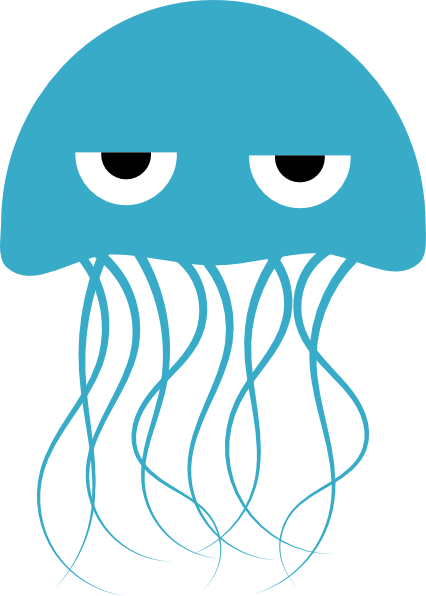
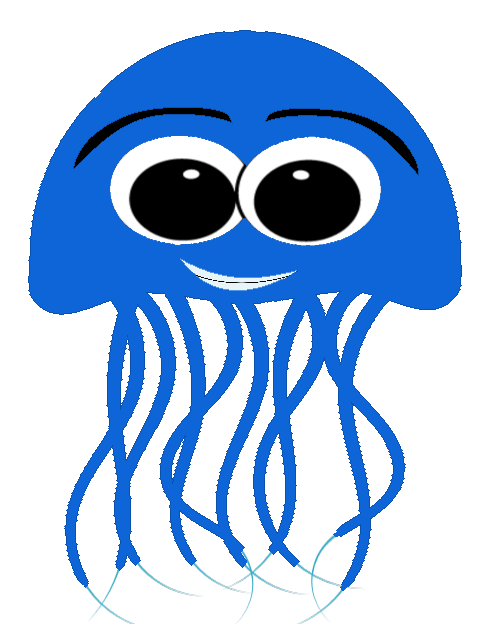
Background to games
Added background and happier jelly

diff --git a/src/view/Game2.java b/src/view/Game2.java
@@ -78,6 +78,9 @@ public class Game2 extends JPanel implements KeyListener
 	private int questionBase;
 	private int questionTypes; // TODO
 	private int speed;
+	private Image backgroundImg;
+	private ImageIcon backgroundIcon;
+	private JLabel background;
 	
 	private int numQuestionsAsked;
 	private int questionsAnsweredCorrectly; // TODO
@@ -118,6 +121,7 @@ public class Game2 extends JPanel implements KeyListener
 		questionsAnsweredCorrectly = 0;
 		needsInstructions = false;
 
+		setBackground();
 		setUpImages();
 		addKeyListener(this);
 		setFocusable(true);
@@ -138,7 +142,7 @@ public class Game2 extends JPanel implements KeyListener
 		jelly = new JButton(question, jellyIcon);
 		jelly.setVerticalTextPosition(SwingConstants.TOP);
 		jelly.setFont(new Font("Tahoma", Font.BOLD, 25));
-		jelly.setForeground(new Color(25, 25, 112));
+		jelly.setForeground(new Color(20, 20, 217));
 		int randomPlacement = Controller.rng.nextInt(numberOfColumns);
 		columnLabels = null;
 		columnLabels = new ArrayList<JLabel>();
@@ -157,6 +161,7 @@ public class Game2 extends JPanel implements KeyListener
 			columnLabels.add(new JLabel(" "+columnAnswer,chestIcon,JLabel.CENTER));
 		}
 		setUpVar();
+		add(background);
 		playing = true;
 		reset = false;
 	}
@@ -181,8 +186,7 @@ public class Game2 extends JPanel implements KeyListener
 		theLayout.putConstraint(SpringLayout.EAST, scoreLabel, -20, SpringLayout.WEST, help);
 		
 		feedbackLabel.setHorizontalAlignment(SwingConstants.LEFT);
-		feedbackLabel.setForeground(new Color(70, 130, 180));
-		feedbackLabel.setBackground(new Color(245, 245, 245));
+		feedbackLabel.setForeground(new Color(20, 20, 217));
 		feedbackLabel.setFont(new Font("Arial", Font.BOLD, 35));
 		feedbackLabel.setHorizontalTextPosition(SwingConstants.CENTER);
 		feedbackLabel.setVerticalTextPosition(SwingConstants.TOP);
@@ -216,8 +220,8 @@ public class Game2 extends JPanel implements KeyListener
 	
 	private void setUpImages()
 	{
-		jellyWidth = xSpacing / 3;
-		jellyHeight = xSpacing / 2;
+		jellyWidth = (int)(xSpacing / 2.5);
+		jellyHeight = (int) (xSpacing / 1.75);
 
 		try
 		{
@@ -293,9 +297,23 @@ public class Game2 extends JPanel implements KeyListener
 			}
 		});
 	}
+	
+	private void setBackground(){
+		try
+		{
+			backgroundImg = ImageIO.read(this.getClass().getResourceAsStream("background.jpg"));
+		}
+		catch (IOException ex)
+		{
+			System.out.println("File \"background.jpg\" is missing.");
+		}
+		backgroundImg = backgroundImg.getScaledInstance(base.frame.getWidth(), base.frame.getHeight(), java.awt.Image.SCALE_SMOOTH);
+		backgroundIcon = new ImageIcon(backgroundImg);
+		background = new JLabel(backgroundIcon);
+	}
 
 	private void setUpVar()
-	{
+	{		
 		int currentX = (xSpacing / 3) - 50; //was  +30
 		label1 = columnLabels.get(0);
 		label1.setForeground(new Color(255, 255, 255));
@@ -323,7 +341,6 @@ public class Game2 extends JPanel implements KeyListener
 		theLayout.putConstraint(SpringLayout.SOUTH, label3, 0, SpringLayout.SOUTH, this);
 		theLayout.putConstraint(SpringLayout.WEST, label3, currentX, SpringLayout.WEST, this);
 		add(label3);
-
 		jelly.setLocation(jellyLocation);
 		jelly.setFocusable(false);
 		jelly.setFocusPainted(false);
@@ -332,7 +349,6 @@ public class Game2 extends JPanel implements KeyListener
 		jelly.setBorderPainted(false);
 		jelly.setMargin(new Insets(0, 0, 0, 0));
 		jelly.setHorizontalTextPosition(JButton.CENTER);
-
 		add(jelly);
 	}
 

diff --git a/src/view/Game1.java b/src/view/Game1.java
@@ -64,7 +64,10 @@ public class Game1 extends JPanel
 	private ImageIcon catchIcon;
 	private Image missImg;
 	private ImageIcon missIcon;
+	private Image backgroundImg;
+	private ImageIcon backgroundIcon;
 	private JLabel feedbackLabel;
+	private JLabel background;
 
 	private int questionBase;
 	private int questionTypes; // TODO
@@ -111,9 +114,11 @@ public class Game1 extends JPanel
 		needsInstructions = false;
 		feedbackLabel = new JLabel("");
 		
+		setBorder(new LineBorder(new Color(70, 130, 180), 10));
+		setBackground();
 		setUpImages();
-		playGame();
 		setUpLayout();
+		playGame();
 		setUpListeners();
 		setUpTimers();
 	}
@@ -139,6 +144,7 @@ public class Game1 extends JPanel
 			currentFish.add(new FishObject(fishAnswer, i, this, fishIcon));
 		}
 		addFish();
+		add(background);
 		playing = true;
 		reset = false;
 	}
@@ -146,9 +152,6 @@ public class Game1 extends JPanel
 	private void setUpLayout()
 	{
 		setLayout(theLayout);
-		setBorder(new LineBorder(new Color(70, 130, 180), 10));
-		setBackground(new Color(213, 248, 255));
-		setBackground(new Color(208, 243, 255));
 
 		timerLabel.setHorizontalAlignment(SwingConstants.RIGHT);
 		timerLabel.setForeground(new Color(70, 130, 180));
@@ -195,6 +198,19 @@ public class Game1 extends JPanel
 		add(menu);
 		add(help);
 		add(feedbackLabel);
+	}
+	private void setBackground(){
+		try
+		{
+			backgroundImg = ImageIO.read(this.getClass().getResourceAsStream("background.jpg"));
+		}
+		catch (IOException ex)
+		{
+			System.out.println("File \"background.jpg\" is missing.");
+		}
+		backgroundImg = backgroundImg.getScaledInstance(base.frame.getWidth(), base.frame.getHeight(), java.awt.Image.SCALE_SMOOTH);
+		backgroundIcon = new ImageIcon(backgroundImg);
+		background = new JLabel(backgroundIcon);
 	}
 	
 	private void setUpImages(){
@@ -291,6 +307,7 @@ public class Game1 extends JPanel
 				else if (reset)
 				{
 					clearCurrentFish();
+					remove(background);
 					playGame();
 				}
 				else if (!playing)
@@ -325,12 +342,15 @@ public class Game1 extends JPanel
 				}
 				else if(playing && !needsInstructions & miss)
 				{
-					feedbackLabel.setIcon(missIcon);
-					if (pause >= 25){
+					//feedbackLabel.setIcon(missIcon);
+					if (pause >= 20){
 						miss = false;
-						addFish();
+						moveFish();
+						//addFish();
+						//add(background);
 						questionLabel.setText(question);
 					}
+					moveFish();
 					pause ++;
 				}
 			}
@@ -453,7 +473,7 @@ public class Game1 extends JPanel
 				score -= 5;
 				scoreLabel.setText("Score: " + Integer.toString(score));
 			}
-			hideFish();
+			//hideFish();
 			miss = true;
 		}
 	}
@@ -537,6 +557,7 @@ public class Game1 extends JPanel
 	@Override
 	public void paint(Graphics g)
 	{
+		g.drawImage(backgroundImg,0,0,this);
 		refreshFishLocation();
 		super.paint(g);
 	}

diff --git a/src/view/Game3.java b/src/view/Game3.java
@@ -86,6 +86,9 @@ public class Game3 extends JPanel implements KeyListener
 	private boolean miss;
 	private int count;
 	private boolean reset;
+	private Image backgroundImg;
+	private ImageIcon backgroundIcon;
+	private JLabel background;
 	
 	public Game3(Controller base)
 	{
@@ -125,6 +128,7 @@ public class Game3 extends JPanel implements KeyListener
 		playing = true;
 		needsInstructions = false;
 
+		setBackground();
 		addKeyListener(this);
 		setFocusable(true);
 		requestFocus();
@@ -215,6 +219,20 @@ public class Game3 extends JPanel implements KeyListener
 		add(help);
 		add(questionLabel);
 		add(feedbackLabel);
+	}
+	
+	private void setBackground(){
+		try
+		{
+			backgroundImg = ImageIO.read(this.getClass().getResourceAsStream("background.jpg"));
+		}
+		catch (IOException ex)
+		{
+			System.out.println("File \"background.jpg\" is missing.");
+		}
+		backgroundImg = backgroundImg.getScaledInstance(base.frame.getWidth(), base.frame.getHeight(), java.awt.Image.SCALE_SMOOTH);
+		backgroundIcon = new ImageIcon(backgroundImg);
+		background = new JLabel(backgroundIcon);
 	}
 	
 	private void setUpImages()
@@ -379,6 +397,7 @@ public class Game3 extends JPanel implements KeyListener
 					break;
 			}
 		}
+		add(background);
 		playing = true;
 		reset = false;
 	}
